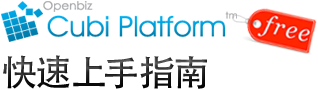
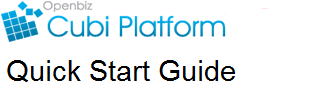
translate cubi quickstart page

Changed region(s): [[0.0, 0.6, 0.7642, 1.0], [0.7075, 0.0889, 1.0, 0.6]]

diff --git a/docs/openbiz.en/developer/cubi/quick-start.php b/docs/openbiz.en/developer/cubi/quick-start.php
@@ -3,7 +3,7 @@
 <html xmlns="http://www.w3.org/1999/xhtml">
 <head>
 <meta http-equiv="Content-Type" content="text/html; charset=UTF-8" />
-<title>快速上手指南 － Openbiz Cubi － <?php echo SITE_NAME;?></title>
+<title>Quick Start - Openbiz Cubi - <?php echo SITE_NAME;?></title>
 <link rel="icon" href="favicon.ico" type="image/x-icon" />
 <link rel="shortcut icon" href="favicon.ico" type="image/x-icon" /> 
 <link href="../../general/style/general.css" rel="stylesheet" type="text/css" />
@@ -34,12 +34,13 @@
 			<div id="framework-banner" class="banner" >
 				<div class="desc">
 					<h1 style="height:auto; padding-top:45px;"><a href="../cubi.php"><img src="image/quickstart/banner-title.png" title="Openbiz Cubi"/></a></h1>
-					<h2>轻便灵活的内建描述语言</h2>
-					<p style="padding-bottom:12px;padding-top:4px;">
-						将Openbiz部署到现有的系统 
-					</p>									
+					<h2>Learn how to use Openbiz Cubi</h2>
+					<p style="padding-bottom:0px;padding-top:4px;">
+						Start developing your first Cubi module <br/>
+						Stand on the should of a solid platform
+					</p>
 						<p style="width:100px;padding-top:15px;">
-							<a class="blue-button-go" href="#" >免费获取</a>
+							<a class="blue-button-go" href="#" >Download</a>
 						</p>
 				</div>
 			</div>
@@ -48,16 +49,16 @@
 	
 	<div class="content">
 		<div class="page-splitter"></div>	
-		<h2>快速本地安装指南</h2>
-		<p>Openbiz 允许开发人员通过实现插入式服务的方式编写自己的特殊逻辑。Openbiz服务对象同样是基于元数据驱动的对象。</p>
+		<h2>Download and Install Openbiz Cubi</h2>
+		<p>Follow the easy steps to get youself start Openbiz Cubi - download, unzip, then launch installation wizard.</p>
 		<table class="present-features" cellspacing="0">
 		<tr>
 			<td>				
 				<img src="image/quickstart/icon-env.png" />
 			</td>
 			<td>
-				<h3>1、准备环境</h3>
-				<p>根据习用环境要求，来安装设置所需软件</p>
+				<h3>1. Prepare environment</h3>
+				<p>Standard LAMP (Linux, Apache, Mysql, PHP) environment or WAMP (Windows, Apache, Mysql, PHP)</p>
 			</td>			
 		</tr>			
 		<tr>
@@ -65,8 +66,8 @@
 				<img src="image/quickstart/icon-get.png" />
 			</td>
 			<td>
-				<h3>2、获取Cubi</h3>
-				<p>通过完成在线订单的方式获取Cubi的下载地址并注册您的OpenbizID，不必担心此过程免费。您的OpenbizID将用于您日后获取技术支持使用</p>
+				<h3>2. Get Openbiz Cubi</h3>
+				<p>Download release packages or pull source code from <a href="http://code.google.com/p/openbiz-cubi/" target="_blank">Google project page</a></p>
 			</td>			
 		</tr>		
 		<tr>
@@ -74,9 +75,9 @@
 				<img src="image/quickstart/icon-unzip.png" />
 			</td>
 			<td>
-				<h3>3、解压缩</h3>
+				<h3>3. Unzip</h3>
 				<p>
-					将Cubi源代码包内的文件解压缩到您的Web根文件夹中
+					Unzip Cubi source code to your web root directory.
 				</p>
 			</td>			
 		</tr>
@@ -85,9 +86,9 @@
 				<img src="image/quickstart/icon-lock.png" />
 			</td>
 			<td>
-				<h3>4、设置权限</h3>
+				<h3>4. Set permission</h3>
 				<p>
-					给Web根文件夹为您的Web服务器的用户的写入权限
+					Give write permission on cubi installed directory to the web server user.
 				</p>
 			</td>		
 		</tr>
@@ -96,55 +97,55 @@
 				<img src="image/quickstart/icon-web.png" />
 			</td>
 			<td>
-				<h3>5、Web初始化</h3>
+				<h3>5. Installation wizard</h3>
 				<p>
-					打开浏览器，输入http://localhost/，根据系统向导完成初始化操作
+					Open a web browser, launch Cubi installation wizard with http://localhost/cubi/install. Follow the wizard to complete installation.
 				</p>
 			</td>			
 		</tr>				
 		</table>
 		<div class="page-splitter"></div>			
-		<h2>系统环境要求</h2>
+		<h2>Environment Requirements</h2>
 		<table class="env-req">
 			<tr>
 				<td>
-					<h4>支持操作系统:</h4>
+					<h4>Supported Operation Systems:</h4>
 					
 				</td>
 				<td>
-					Microsoft Windows 2008,Microsoft Windows 2003,FreeBSD,Linux,Macintosh
+					Microsoft Windows 2008, Microsoft Windows 2003, FreeBSD, Linux, Macintosh
 				</td>
 			</tr>
 			<tr>
 				<td>
-					<h4>支持Web服务器:</h4>
+					<h4>Supported Web Servers:</h4>
 					
 				</td>
 				<td>
-					Apache Web Server 2.0,Microsoft IIS 5.0,Lighttpd 1.4
+					Apache Web Server 2.0, Microsoft IIS 6.0, Lighttpd 1.4
 				</td>
 			</tr>
 			<tr>
 				<td>
-					<h4>支持数据库:</h4>
+					<h4>Supported Databases:</h4>
 					
 				</td>
 				<td>
-					MySQL 5.0 (推荐),Microsoft SQL Server,PostgreSQL
+					MySQL 5.0 (recommended), Oracle, Microsoft SQL Server, PostgreSQL
 				</td>
 			</tr>
 			<tr>
 				<td>
-					<h4>脚本引擎:</h4>
+					<h4>PHP Runtime:</h4>
 					
 				</td>
 				<td>
-					PHP 5.3 并启用如下扩展,mod_curl,mod_pdo,mod_pdo-mysql,mod_mcrypt 
+					PHP 5.2 with extensions, mod_curl, mod_pdo, mod_pdo-mysql, mod_mcrypt 
 				</td>
 			</tr>
 			<tr>
 				<td>
-					<h4>加密引擎：</h4>
+					<h4>Supported PHP Encoder：</h4>
 					
 				</td>
 				<td>
@@ -153,71 +154,17 @@
 			</tr>			
 		</table>
 		<div class="page-splitter"></div>			
-		<h2>学习资料</h2>
-		<table class="learning-files">
-			<tr>
-				<td>					
-					<img src="image/quickstart/pic-video.png" />
-				</td>
-				<td>
-					<h4>Windows XP 安装Openbiz Cubi 视频教程</h4>
-					让我们通过短片来了解如何通过Openbiz Appbuilder来快速开发搭建企业级应用的雏形。以及它都为我们带来了哪些先进的高级特性。
-					让我们通过短片来了解如何通过Openbiz Appbuilder来快速开发搭建企业级应用的雏形。
-				</td>
-			</tr>
-			<tr>
-				<td>
-					<img src="image/quickstart/pic-video.png" />					
-				</td>
-				<td>
-					<h4>Openbiz Cubi管理员视频教程</h4>
-					让我们通过短片来了解如何通过Openbiz Appbuilder来快速开发搭建企业级应用的雏形。
-					以及它都为我们带来了哪些先进的高级特性。让我们通过短片来了解如何通过Openbiz Appbuilder来快速开发搭建企业级应用的雏形。
-				</td>
-			</tr>
-			<tr>
-				<td colspan=2>
-					<h4>通过范例学习Openbiz Cubi应用开发</h4>
-					让我们通过短片来了解如何通过Openbiz Appbuilder来快速开发搭建企业级应用的雏形。以及它都为我们带来了哪些先进的高级特性。
-					让我们通过短片来了解如何通过Openbiz Appbuilder来快速开发搭建企业级应用的雏形。以及它都为我们带来了哪些先进的高级特性。
-					<a href="#" target="_blank">阅读全文</a>
-				</td>
-			</tr>
-			<tr>
-				<td colspan=2>
-					<h4>Cubi快速开始构建应用程序</h4>
-					让我们通过短片来了解如何通过Openbiz Appbuilder来快速开发搭建企业级应用的雏形。以及它都为我们带来了哪些先进的高级特性。
-					让我们通过短片来了解如何通过Openbiz Appbuilder来快速开发搭建企业级应用的雏形。以及它都为我们带来了哪些先进的高级特性。
-					<a href="#" target="_blank">阅读全文</a>
-				</td>
-			</tr>
-			<tr>
-				<td colspan=2>
-					<h4>如何撰写Cubi模块</h4>
-					让我们通过短片来了解如何通过Openbiz Appbuilder来快速开发搭建企业级应用的雏形。以及它都为我们带来了哪些先进的高级特性。
-					让我们通过短片来了解如何通过Openbiz Appbuilder来快速开发搭建企业级应用的雏形。以及它都为我们带来了哪些先进的高级特性。
-					<a href="#" target="_blank">阅读全文</a>
-				</td>
-			</tr>
-			<tr>
-				<td colspan=2>
-					<h4>如何撰写Cubi模块</h4>
-					让我们通过短片来了解如何通过Openbiz Appbuilder来快速开发搭建企业级应用的雏形。以及它都为我们带来了哪些先进的高级特性。
-					让我们通过短片来了解如何通过Openbiz Appbuilder来快速开发搭建企业级应用的雏形。以及它都为我们带来了哪些先进的高级特性。
-					<a href="#" target="_blank">阅读全文</a>
-				</td>
-			</tr>		
-		</table>
-		<div class="page-splitter"></div>
+		<h2>Documents</h2>
 		<div class="other-resource">
-				<h2>培训与学习资料</h2>
-				<p>关于推荐的技术学习资料列表，请访问如下链接：</p>
+				<p>The links below list Openbiz Cubi online documents</p>
 				<ul>
 					<li>Openbiz at Google Code <br/><a href="http://openbiz-cubi.googlecode.com" target="_blank">http://openbiz-cubi.googlecode.com/</a></li>
-					<li>Openbiz 在线产品文档<br/><a href="http://docs.openbiz.cn" target="_blank">http://docs.openbiz.cn/</a></li>
-					<li>优库视频学习资料<br/><a href="http://u.youku.com/openbiz" target="_blank">http://u.youku.com/openbiz</a></li>
-					<li>土豆视频学习资料<br/><a href="http://www.tudou.com/home/Openbiz/" target="_blank">http://www.tudou.com/home/Openbiz</a></li>
-					<li>Openbiz 新浪博客<br/><a href="http://blog.sina.com.cn/openbiz" target="_blank">http://blog.sina.com.cn/openbiz</a></li>
+					<li>Openbiz Facebook page<br/><a href="http://www.facebook.com/OpenbizSolution" target="_blank">http://www.facebook.com/OpenbizSolution</a></li>
+					<li>Openbiz discusion group<br/><a href="http://groups.google.com/group/openbiz-cubi" target="_blank">http://groups.google.com/group/openbiz-cubi</a></li>
+					<li>Openbiz Chinese documents<br/><a href="http://docs.openbiz.cn" target="_blank">http://docs.openbiz.cn/</a></li>
+					<li>Openbiz video at youku<br/><a href="http://u.youku.com/openbiz" target="_blank">http://u.youku.com/openbiz</a></li>
+					<li>Openbiz video at tudou<br/><a href="http://www.tudou.com/home/Openbiz/" target="_blank">http://www.tudou.com/home/Openbiz</a></li>
+					
 				</ul>
 			</div>
 		
